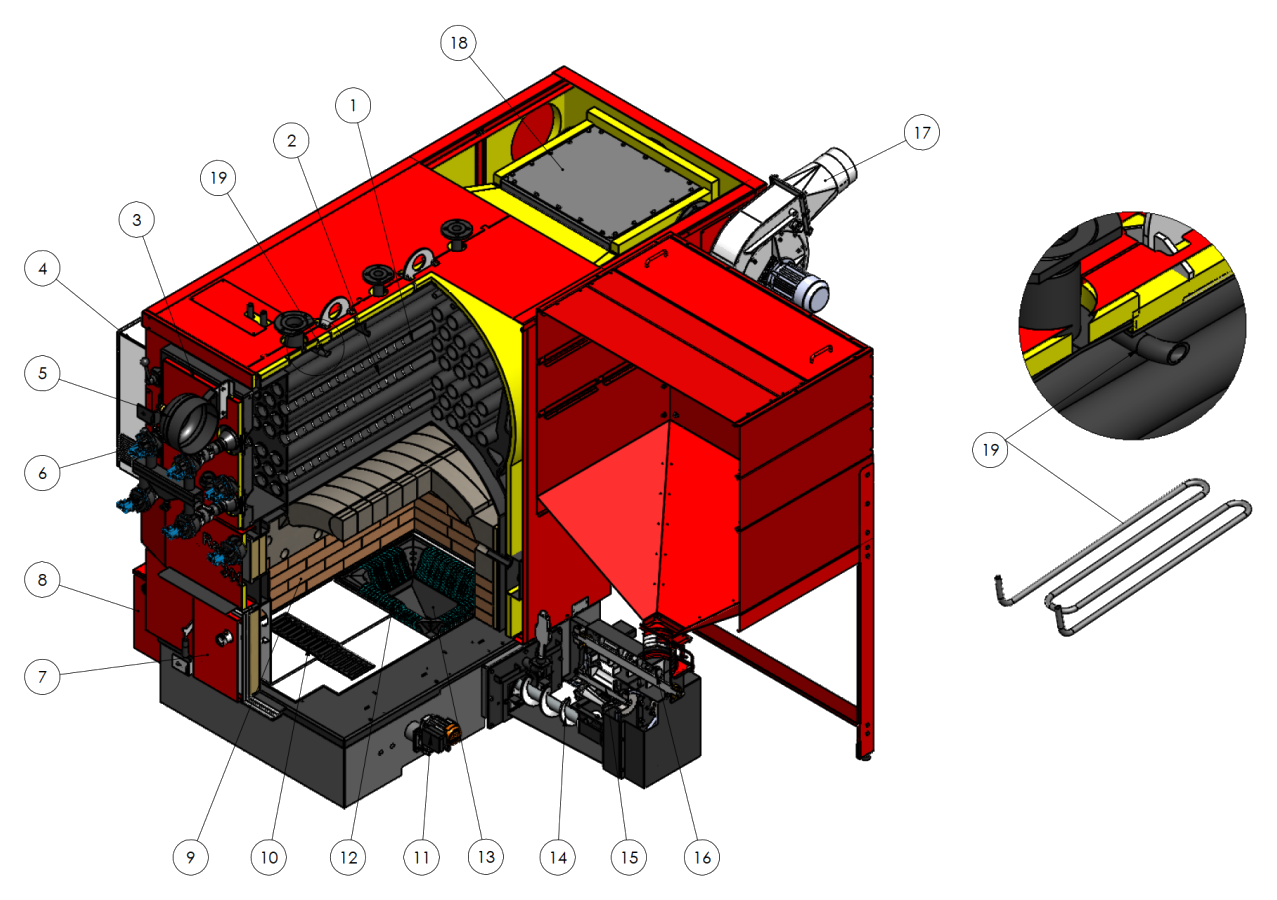
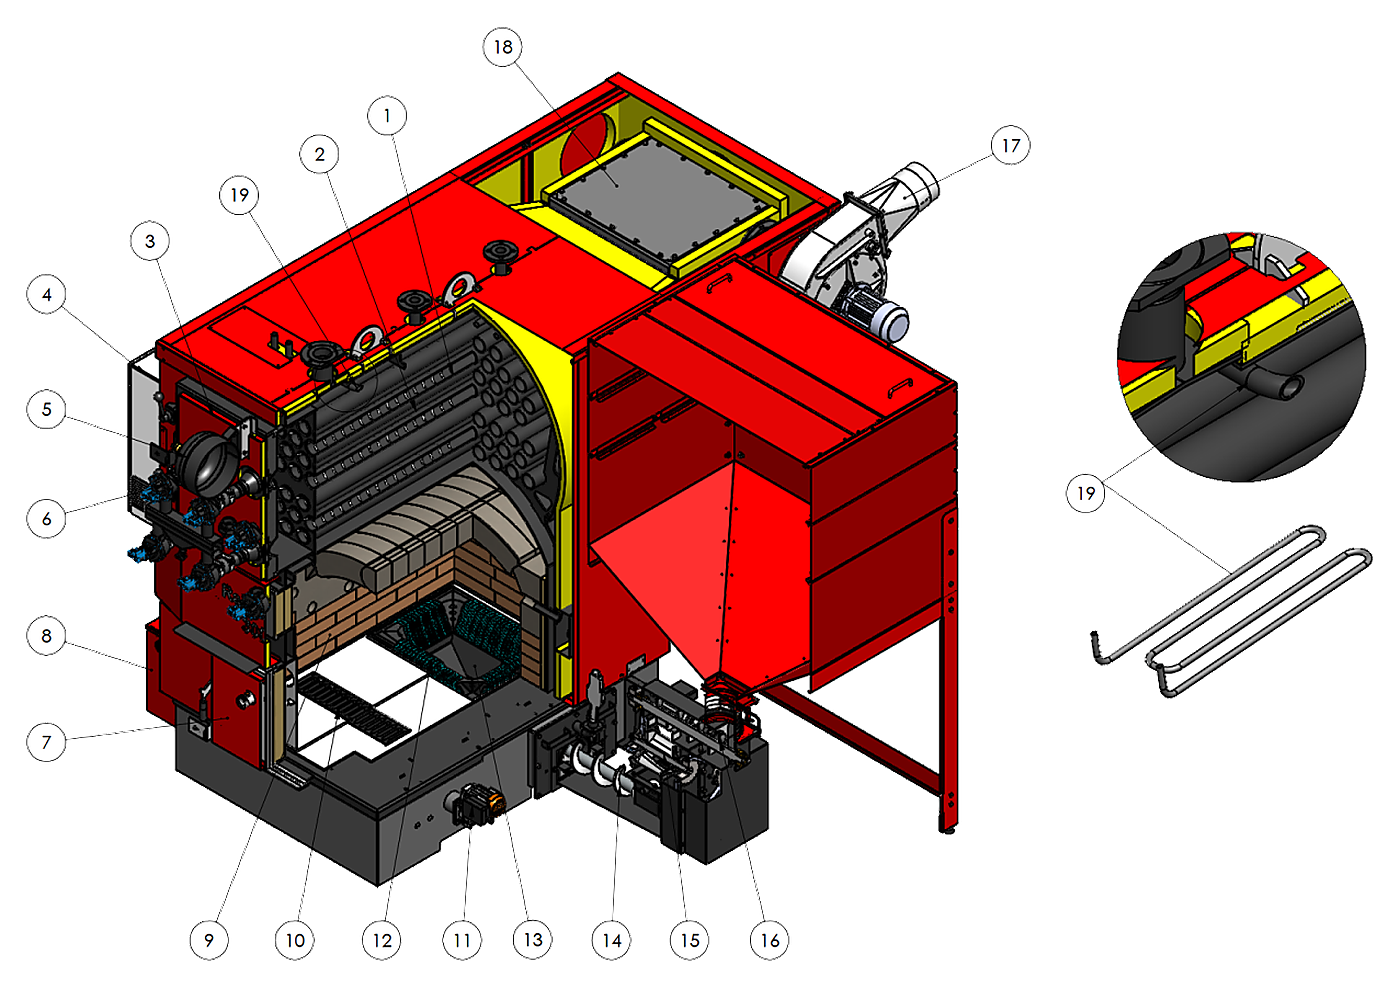
Improve web catalog image quality

diff --git a/scripts/build-full-catalog.py b/scripts/build-full-catalog.py
@@ -5,6 +5,7 @@ import os
 import re
 import shutil
 import zipfile
+from collections import deque
 from pathlib import Path
 
 import numpy as np
@@ -13,7 +14,7 @@ from docx.oxml.table import CT_Tbl
 from docx.oxml.text.paragraph import CT_P
 from docx.table import Table
 from docx.text.paragraph import Paragraph
-from PIL import Image
+from PIL import Image, ImageFilter
 
 
 ROOT = Path(__file__).resolve().parents[1]
@@ -123,14 +124,39 @@ def remove_light_background(image: Image.Image) -> Image.Image:
     rgb = data[:, :, :3].astype(np.int16)
     alpha = data[:, :, 3]
     brightness = rgb.mean(axis=2)
-    neutral = rgb.max(axis=2) - rgb.min(axis=2) <= 28
-    light_background = (brightness >= 236) & neutral & (alpha > 0)
-    soft_edge = (brightness >= 222) & neutral & (alpha > 0)
-    data[light_background, 3] = 0
-    data[soft_edge & ~light_background, 3] = np.minimum(
-        data[soft_edge & ~light_background, 3],
-        ((236 - brightness[soft_edge & ~light_background]) * 10).clip(0, 255).astype(np.uint8),
-    )
+    neutral = rgb.max(axis=2) - rgb.min(axis=2) <= 42
+    light_candidate = (brightness >= 238) & neutral & (alpha > 0)
+
+    # Remove only the light background connected to the outside of the image.
+    # This preserves highlights, labels and bright details inside the boiler drawings.
+    connected = np.zeros((height, width), dtype=bool)
+    queue: deque[tuple[int, int]] = deque()
+
+    def enqueue(x: int, y: int) -> None:
+        if light_candidate[y, x] and not connected[y, x]:
+            connected[y, x] = True
+            queue.append((x, y))
+
+    for x in range(width):
+        enqueue(x, 0)
+        enqueue(x, height - 1)
+    for y in range(height):
+        enqueue(0, y)
+        enqueue(width - 1, y)
+
+    while queue:
+        x, y = queue.popleft()
+        if x > 0:
+            enqueue(x - 1, y)
+        if x < width - 1:
+            enqueue(x + 1, y)
+        if y > 0:
+            enqueue(x, y - 1)
+        if y < height - 1:
+            enqueue(x, y + 1)
+
+    fade_alpha = ((246 - brightness[connected]) * 18).clip(0, 255).astype(np.uint8)
+    data[connected, 3] = np.minimum(data[connected, 3], fade_alpha)
     rgba = Image.fromarray(data, "RGBA")
 
     bbox = rgba.getbbox()
@@ -150,7 +176,15 @@ def remove_light_background(image: Image.Image) -> Image.Image:
 def save_display_image(raw_path: Path, display_path: Path) -> None:
     with Image.open(raw_path) as image:
         image.seek(0)
-        remove_light_background(image).save(display_path)
+        cleaned = remove_light_background(image)
+        max_side = max(cleaned.size)
+        if max_side < 1400:
+            scale = min(2.0, 1400 / max_side)
+            cleaned = cleaned.resize(
+                (round(cleaned.width * scale), round(cleaned.height * scale)),
+                Image.Resampling.LANCZOS,
+            ).filter(ImageFilter.UnsharpMask(radius=1.1, percent=115, threshold=3))
+        cleaned.save(display_path, optimize=False, compress_level=4)
 
 
 def extract_images() -> list[dict[str, str]]:
